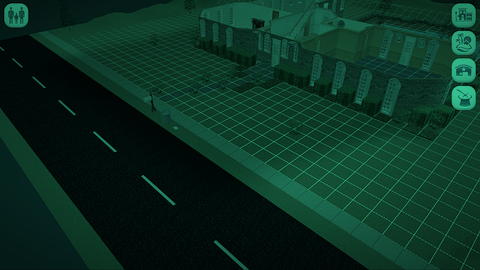
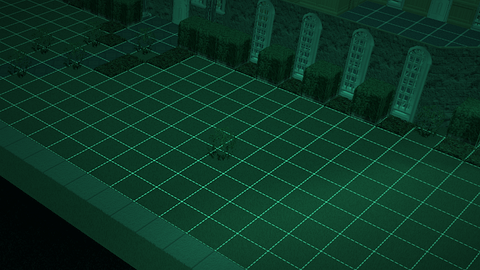
fix(dispatch): strip HUD buttons from CCTV backdrops and calibrate realistic 3D actor scale

diff --git a/Tools/Conversations/Game/CctvSceneRenderer.cs b/Tools/Conversations/Game/CctvSceneRenderer.cs
@@ -128,59 +128,63 @@ namespace Simitone.Conversations
                     Animator.RenderFrame(rig.Avatar, rig.Anim, frame, frac, 1.0f);
                 }
 
-                // Compute CCTV-staged world position & heading
+                // Compute CCTV-staged world position & heading along an isometric ground plane path
                 float worldX = 0f;
+                float worldZ = 0f;
                 float yaw = rig.FacingYaw;
                 if (rig.PatrolWalk)
                 {
-                    // Smooth back-and-forth sweep across the CCTV view so the actor stays framed
+                    // Smooth diagonal sweep across the yard matching the Sims 1 isometric perspective
                     float phase = t * rig.WalkFreq * (float)(Math.PI * 2.0);
                     float s = (float)Math.Sin(phase);
                     float c = (float)Math.Cos(phase);
                     worldX = s * rig.WalkAmplitude;
-                    // Face direction of movement, angled slightly toward the camera so face/suit/stripes read clearly
-                    yaw = c >= 0f ? 1.10f : -1.10f;
-                    yaw += -s * 0.25f;
+                    worldZ = s * 0.42f;
+                    // Face along the diagonal path, angled slightly toward the camera so face/stripes/tail read clearly
+                    yaw = c >= 0f ? 1.05f : -2.05f;
+                    yaw += -s * 0.22f;
                 }
                 else
                 {
-                    // Stationary tampering / vault theft with subtle body sway
-                    worldX = (float)Math.Sin(t * 0.9f) * 0.12f;
-                    yaw = rig.FacingYaw + (float)Math.Sin(t * 1.3f) * 0.18f;
+                    // Active tampering / heist with subtle step & torso sway
+                    worldX = (float)Math.Sin(t * 0.85f) * 0.22f;
+                    worldZ = (float)Math.Cos(t * 0.85f) * 0.10f;
+                    yaw = rig.FacingYaw + (float)Math.Sin(t * 1.3f) * 0.20f;
                 }
 
                 rig.Avatar.Scale = Vector3.One * rig.BaseScale;
-                rig.Avatar.Position = new Vector3(worldX, 0f, 0f);
+                rig.Avatar.Position = new Vector3(worldX, 0f, worldZ);
                 rig.Avatar.RotationY = yaw;
 
                 // Crisp IR night-vision illumination on the 3D mesh; phosphor tint is applied during 2D composite
-                rig.Avatar.AmbientLight = new Vector4(1.42f, 1.48f, 1.42f, 1.0f);
+                rig.Avatar.AmbientLight = new Vector4(1.45f, 1.52f, 1.45f, 1.0f);
 
                 if (rig.Avatar.Skeleton != null && rig.Avatar.Skeleton.RootBone != null)
                     rig.Avatar.Skeleton.ComputeBonePositions(rig.Avatar.Skeleton.RootBone, Matrix.Identity);
 
-                // High-angle security-cam framing tailored to human vs pet height so nothing clips the monitor edges
+                // Overhead ~34 deg security-cam pitch calibrated to match the 2x zoomed Sims 1 lot proportions:
+                //   Humans ~42% of monitor height (matching doors/fences); Pets ~24% of monitor height.
                 if (rig.IsPet)
                 {
-                    camera.Position = new Vector3(0f, 2.30f, 4.70f);
-                    camera.Target = new Vector3(0f, 0.48f, 0f);
+                    camera.Position = new Vector3(0f, 3.25f, 5.30f);
+                    camera.Target = new Vector3(0f, 0.30f, 0f);
                 }
                 else
                 {
-                    camera.Position = new Vector3(0f, 2.65f, 4.35f);
-                    camera.Target = new Vector3(0f, 1.05f, 0f);
+                    camera.Position = new Vector3(0f, 3.55f, 5.25f);
+                    camera.Target = new Vector3(0f, 0.72f, 0f);
                 }
 
                 // Exact View * Projection screen coordinates for dead-center tracking brackets & grounded foot shadow
                 var viewProj = camera.View * camera.Projection;
-                float centerY = rig.IsPet ? 0.28f : 1.08f;
-                var bodyClip = Vector4.Transform(new Vector3(worldX, centerY, 0f), viewProj);
+                float centerY = rig.IsPet ? 0.22f : 0.68f;
+                var bodyClip = Vector4.Transform(new Vector3(worldX, centerY, worldZ), viewProj);
                 if (Math.Abs(bodyClip.W) > 0.001f)
                 {
-                    actorNormalizedX = SimLayout.Clamp(0.5f + (bodyClip.X / bodyClip.W) * 0.5f, 0.16f, 0.84f);
-                    actorNormalizedY = SimLayout.Clamp(0.5f - (bodyClip.Y / bodyClip.W) * 0.5f, 0.22f, 0.80f);
+                    actorNormalizedX = SimLayout.Clamp(0.5f + (bodyClip.X / bodyClip.W) * 0.5f, 0.14f, 0.86f);
+                    actorNormalizedY = SimLayout.Clamp(0.5f - (bodyClip.Y / bodyClip.W) * 0.5f, 0.22f, 0.84f);
                 }
-                var footClip = Vector4.Transform(new Vector3(worldX, 0f, 0f), viewProj);
+                var footClip = Vector4.Transform(new Vector3(worldX, 0f, worldZ), viewProj);
                 if (Math.Abs(footClip.W) > 0.001f)
                 {
                     actorFootNormalizedY = SimLayout.Clamp(0.5f - (footClip.Y / footClip.W) * 0.5f, 0.45f, 0.94f);
@@ -368,7 +372,7 @@ namespace Simitone.Conversations
                             bodyApr: "b001mafit_01.apr", bodyTex: "burglarmmed_01",
                             handSkin: "med",
                             animCandidates: new[] { "a2o-walking-frantic-loop.anim", "a2o-walking-loop.anim", "a2o-idle1.anim" },
-                            patrolWalk: true, walkAmp: 0.90f, walkFreq: 0.34f, animSpeed: 1.0f, facingYaw: 0.45f,
+                            patrolWalk: true, walkAmp: 1.15f, walkFreq: 0.30f, animSpeed: 1.0f, facingYaw: 0.45f,
                             label: "Night Prowler");
                         break;
 
@@ -378,7 +382,7 @@ namespace Simitone.Conversations
                             bodyApr: "b000cat_tabby.apr", bodyTex: "b000cat_tabby",
                             fallbackApr: "b008cat_bombay.apr", fallbackTex: "b008cat_bombay",
                             animCandidates: new[] { "k2o-walking-loop.anim", "k2o-stand-tailswish-loop-slow.anim", "k2o-stand-breathe-loop.anim" },
-                            scale: 0.84f, patrolWalk: true, walkAmp: 0.85f, walkFreq: 0.34f, animSpeed: 1.0f,
+                            scale: 0.48f, patrolWalk: true, walkAmp: 1.20f, walkFreq: 0.32f, animSpeed: 1.05f,
                             label: "Stray Tabby Cat");
                         break;
 
@@ -388,7 +392,7 @@ namespace Simitone.Conversations
                             bodyApr: "racoon.apr", bodyTex: "racoon",
                             fallbackApr: "b000dog_lab.apr", fallbackTex: "b000dog_lab",
                             animCandidates: new[] { "d2o-raccoon-walk-loop.anim", "d2o-walking-loop.anim", "d2o-sniff-sidetoside.anim" },
-                            scale: 0.80f, patrolWalk: true, walkAmp: 0.85f, walkFreq: 0.38f, animSpeed: 1.05f,
+                            scale: 0.46f, patrolWalk: true, walkAmp: 1.20f, walkFreq: 0.34f, animSpeed: 1.08f,
                             label: "El Bandito Raccoon");
                         break;
                 }
@@ -443,7 +447,7 @@ namespace Simitone.Conversations
                 Avatar = ava,
                 Anim = anim,
                 IsPet = false,
-                BaseScale = 0.56f,
+                BaseScale = 0.36f,
                 PatrolWalk = patrolWalk,
                 WalkAmplitude = walkAmp,
                 WalkFreq = walkFreq,

diff --git a/Tools/Conversations/Game/CareerDispatchUI.cs b/Tools/Conversations/Game/CareerDispatchUI.cs
@@ -844,8 +844,8 @@ namespace Simitone.Conversations
 
             // Grounded contact shadow ellipse directly beneath the 3D Sim's projected feet
             bool isPet = ev.Kind == SecurityEventKind.StrayCat || ev.Kind == SecurityEventKind.Raccoon;
-            float shW = (isPet ? 52f : 56f) * SimLayout.Clamp(r.Width / 340f, 0.72f, 1.15f);
-            float shH = isPet ? 11f : 13f;
+            float shW = (isPet ? 34f : 38f) * SimLayout.Clamp(r.Width / 340f, 0.72f, 1.15f);
+            float shH = isPet ? 8f : 10f;
             float shY = SimLayout.Clamp(footY - shH * 0.45f, contentY + 20f, r.Bottom - shH - 4f);
             FillRoundedRect(batch, new SimRect(actorCx - shW * 0.5f, shY, shW, shH), (int)(shH * 0.5f), Color.Black * 0.46f);
 
@@ -858,19 +858,19 @@ namespace Simitone.Conversations
 
             // Bright green-white night-vision IR illumination so burglar stripes, mask, cat/raccoon markings pop clearly
             var nvTint = new Color(
-                (byte)Math.Round(202f * dimFactor),
+                (byte)Math.Round(206f * dimFactor),
                 (byte)Math.Round(255f * dimFactor),
-                (byte)Math.Round(218f * dimFactor),
+                (byte)Math.Round(220f * dimFactor),
                 (byte)255);
             batch.Draw(cctvRenderer.ActorTarget, dest, nvTint);
 
-            // Motion-tracking corner reticle dead-centered on the live 3D actor
+            // Motion-tracking corner reticle tightly framing the realistically scaled 3D actor
             float sc = SimLayout.Clamp(contentH / 128f, 0.65f, 1.15f);
-            float bw = (isPet ? 92f : 86f) * sc;
-            float bh = (isPet ? 66f : 104f) * sc;
+            float bw = (isPet ? 58f : 56f) * sc;
+            float bh = (isPet ? 44f : 72f) * sc;
             float bx = SimLayout.Clamp(actorCx - bw * 0.5f, r.X + 10f, r.Right - bw - 10f);
             float by = SimLayout.Clamp(actorCy - bh * 0.5f, contentY + 4f, r.Bottom - bh - 6f);
-            DrawMotionBrackets(batch, px, bx, by, bw, bh, 12f * sc, SimUiTokens.Amber * 0.88f);
+            DrawMotionBrackets(batch, px, bx, by, bw, bh, 10f * sc, SimUiTokens.Amber * 0.88f);
         }
 
         void DrawTreeShadowSweep(UISpriteBatch batch, Texture2D px, SimRect r, float hudH, SecurityEvent ev)
